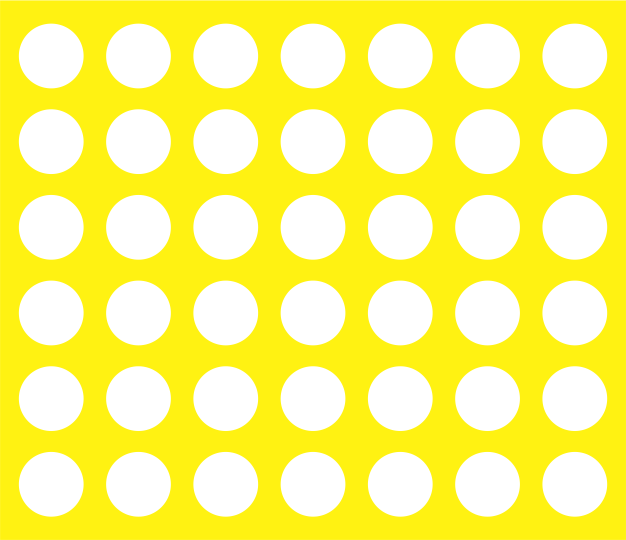
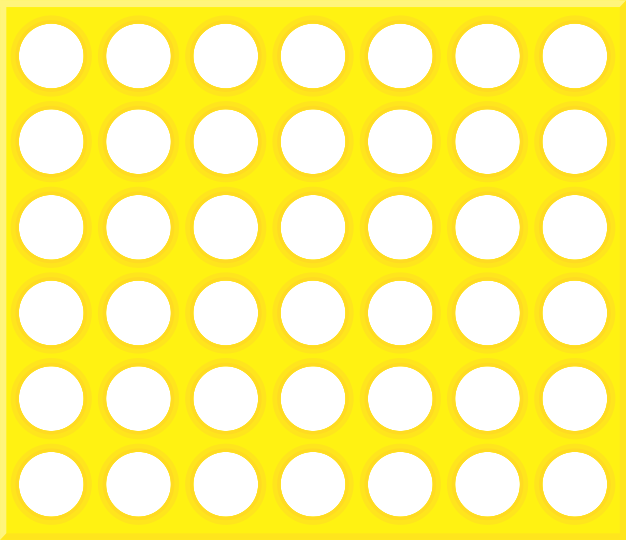
Funcionalidad fichas

Changed region(s): [[0.0, 0.0, 1.0, 1.0]]

diff --git a/TP Entregable 2/js/tablero.js b/TP Entregable 2/js/tablero.js
@@ -1,9 +1,9 @@
 "use strict";
 
-const NUMPIECES = 5;    // Para cada jugador
-const SIZEPIECE = 30;
-const RED = "#FF0000";  // Red
-const BLUE = "#0000FF";  // Blue
+const NUMPIECES = 21;     // Piezas para cada jugador
+const SIZEPIECE = 30;    // Tamaño de la ficha
+const RED = "#FF0000";   // Color ficha                   ????? pasar a Ficha
+const BLUE = "#0000FF";  // Color ficha
 
 let canvas = document.querySelector("#myCanvas");
 let context = canvas.getContext("2d");
@@ -49,12 +49,25 @@ function drawPieces() {
     }
 }
 
-function addPiece(color) {
+/* function addPiece(color) {
     let posX = Math.round(Math.random() * canvasWidth);
     let posY = Math.round(Math.random() * canvasHeight);
     let newPiece = new Ficha(posX, posY, SIZEPIECE, context, color);
     arrayPieces.push(newPiece);
 }
+ */
+function addPiece(color) {
+    let posX = 0;
+    if (color === RED) {
+        posX = 50;
+    } else {
+        posX = 950;
+    }
+    let posY = Math.round(Math.random() * canvasHeight);
+    let newPiece = new Ficha(posX, posY, SIZEPIECE, context, color);
+    arrayPieces.push(newPiece);
+}
+
 
 //#endregion
 
@@ -87,20 +100,12 @@ function onMouseUp(event) {
 
 //#endregion
 
-
-function clearCanvas() {
-    context.fillStyle = "white";
-    context.fillRect(0, 0, canvasWidth, canvasHeight);
-    reloadImageBoard();
-}
-
+//#region - Utilities
 function initPlay() {
-    //drawImageBackground();
+
     for (let i = 1 ; i <= NUMPIECES; i++) {
         addPiece(BLUE);
-        console.log("Ficha agregada azul");
         addPiece(RED);
-        console.log("Ficha agregada roja");
     }
     console.log("--> " + arrayPieces.length + " fichas creadas");
 
@@ -112,17 +117,14 @@ function initPlay() {
     canvas.addEventListener("mousemove", onMouseMoved,false);
 }
 
-/* function drawImageBackground() {
-    let myImageB = new Image();
-    myImageB.src = "imagenes/background.png";
-
-    myImageB.onload = function () {
-        context.drawImage(myImageB, 0, 0, myImageB.width, myImageB.height);
-    }
-} */
+function clearCanvas() {
+    context.fillStyle = "white";
+    context.fillRect(0, 0, canvasWidth, canvasHeight);
+    reloadImageBoard();
+}
 
 function drawImageBoard() {
-    imageBoard.src = "imagenes/cell_tablero.png";
+    imageBoard.src = "imagenes/tablero.png";
 
     imageBoard.onload = function () {
         let posX = (canvas.width - imageBoard.width) / 2;
@@ -136,7 +138,16 @@ function reloadImageBoard() {
     let posY = (canvas.height - imageBoard.height) / 2;
     context.drawImage(imageBoard, posX, posY, imageBoard.width, imageBoard.height);
 }
+//#endregion
 
+/* function drawImageBackground() {
+    let myImageB = new Image();
+    myImageB.src = "imagenes/background.png";
+
+    myImageB.onload = function () {
+        context.drawImage(myImageB, 0, 0, myImageB.width, myImageB.height);
+    }
+} */
 
 
 initPlay();

diff --git a/TP Entregable 2/js/ficha.js b/TP Entregable 2/js/ficha.js
@@ -6,14 +6,17 @@ class Ficha {
         this.radius = radius;
         this.context = context;
         this.highligthed = false;
-        this.highligthedColor = "#000000"; // Black
+        this.highligthedColor = "orange"; 
         this.color = color;
     }
 
     draw(color) {
         this.context.beginPath();
         this.context.arc(this.posX, this.posY, this.radius, 0, 2 * Math.PI);
-        this.context.fillStyle = color; 
+        this.context.fillStyle = color;
+        this.context.strokeStyle = "#000000";  // Black
+        this.context.lineWidth = 1;
+        this.context.stroke();
         this.context.fill();
         
         if (this.highligthed === true) {
